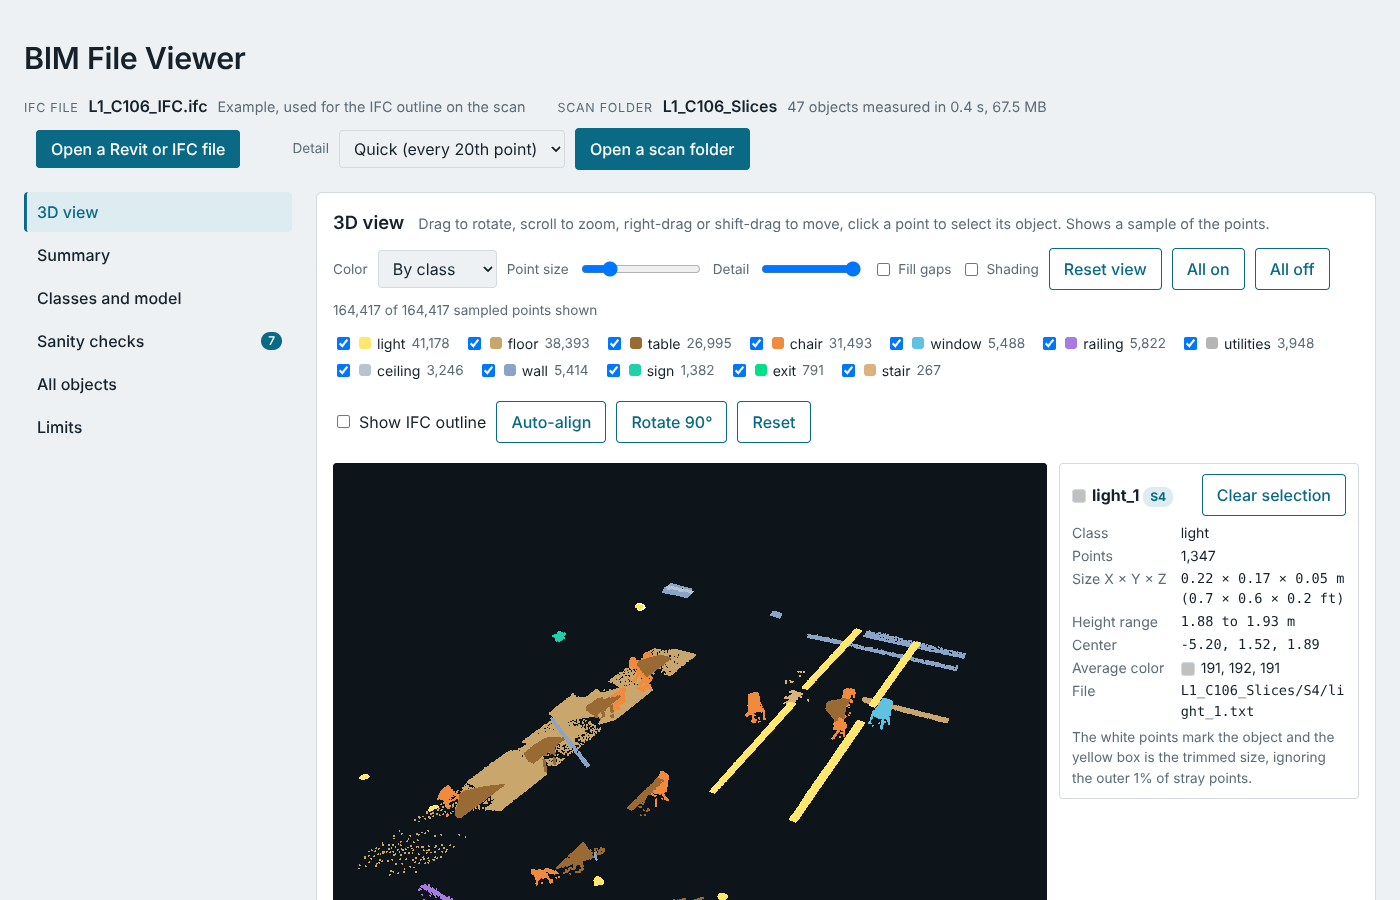
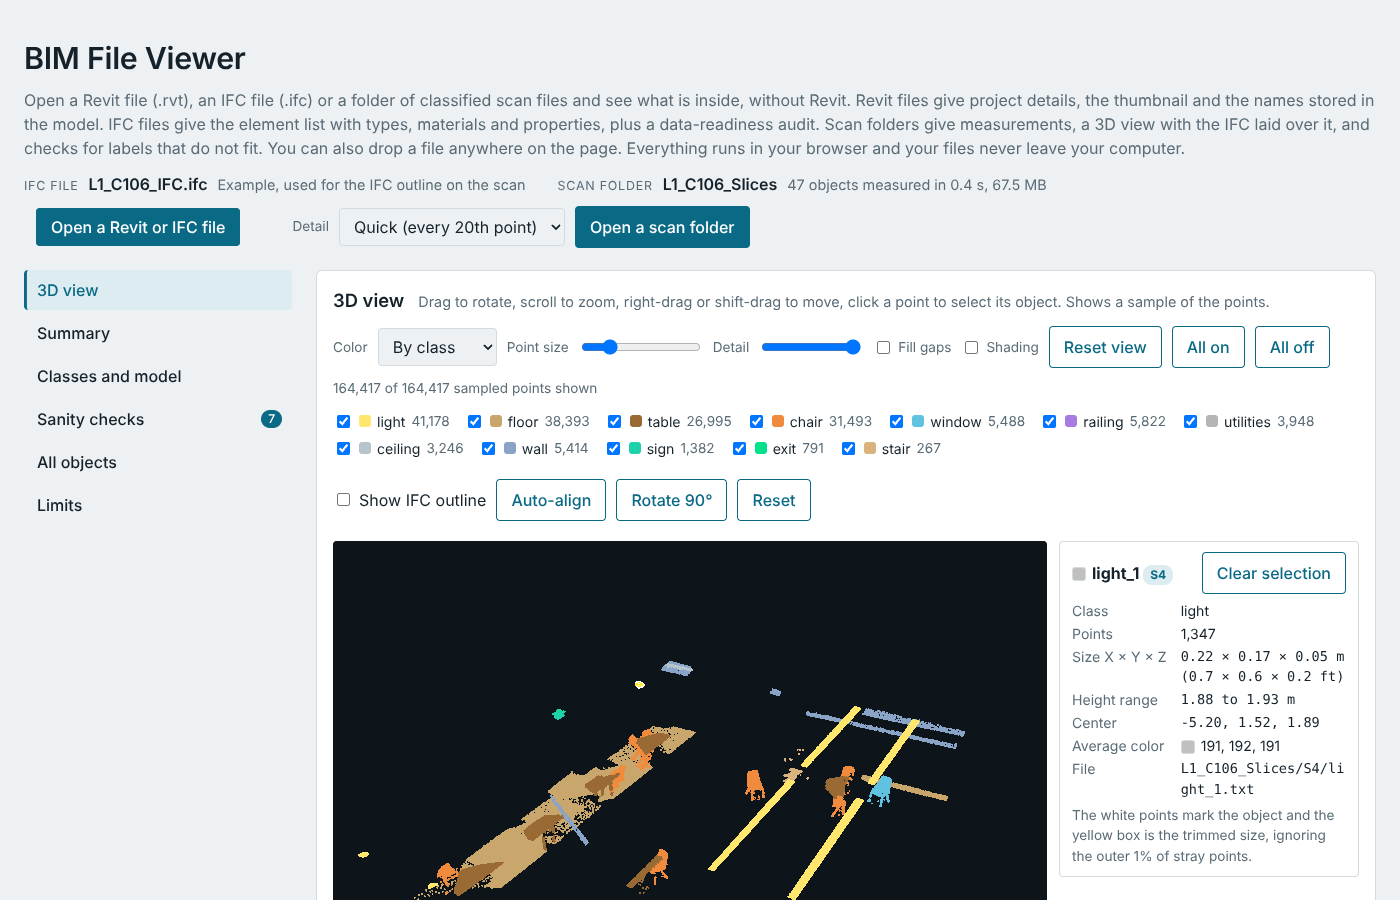
Keep the intro text in place after loading
Claude-Session: https://claude.ai/code/session_01EhrZVCndNZQfJK6kUnVYUM

diff --git a/dist/index.html b/dist/index.html
@@ -124,7 +124,6 @@ details summary { cursor: pointer; font-weight: 500; }
 .openrow .status { min-height: 0; }
 .openrow .progress { width: 220px; }
 header .lede { max-width: none; }
-header.loaded .lede { display: none; }
 header.loaded .openrow { margin-top: 10px; }
 .loadedline { display: flex; flex-wrap: wrap; gap: 6px 32px; margin-top: 12px; }
 .li { display: flex; flex-wrap: wrap; align-items: baseline; gap: 2px 10px; min-width: 0; }

diff --git a/src/template.html b/src/template.html
@@ -119,7 +119,6 @@ details summary { cursor: pointer; font-weight: 500; }
 .openrow .status { min-height: 0; }
 .openrow .progress { width: 220px; }
 header .lede { max-width: none; }
-header.loaded .lede { display: none; }
 header.loaded .openrow { margin-top: 10px; }
 .loadedline { display: flex; flex-wrap: wrap; gap: 6px 32px; margin-top: 12px; }
 .li { display: flex; flex-wrap: wrap; align-items: baseline; gap: 2px 10px; min-width: 0; }

diff --git a/README.md b/README.md
@@ -22,7 +22,7 @@ You do not need Node, Python or Revit to use it. Those are only needed if you ch
 
 ## Using it
 
-The page opens with two buttons under the title: one for a Revit or IFC file, one for a scan folder. You can also drop a file anywhere on the page. Once something is loaded the intro text folds away and a line under the title says what is open: the kind (Revit file, IFC file or scan folder), its name, and its size, plus the object count and measuring time for a scan. The two buttons stay in place to open a different file or folder. The page below has a menu on the left and one screen at a time on the right. The menu lists the screens for whatever is loaded, and the page remembers the last screen you used for each kind of file. On a phone the menu sits above the screen and the list of screens scrolls sideways.
+The page opens with two buttons under the title: one for a Revit or IFC file, one for a scan folder. You can also drop a file anywhere on the page. The intro text stays at the top. A line under it says what is open: the kind (Revit file, IFC file or scan folder), its name, and its size, plus the object count and measuring time for a scan. The two buttons stay in place to open a different file or folder. The page below has a menu on the left and one screen at a time on the right. The menu lists the screens for whatever is loaded, and the page remembers the last screen you used for each kind of file. On a phone the menu sits above the screen and the list of screens scrolls sideways.
 
 | File type | Screens |
 |---|---|
